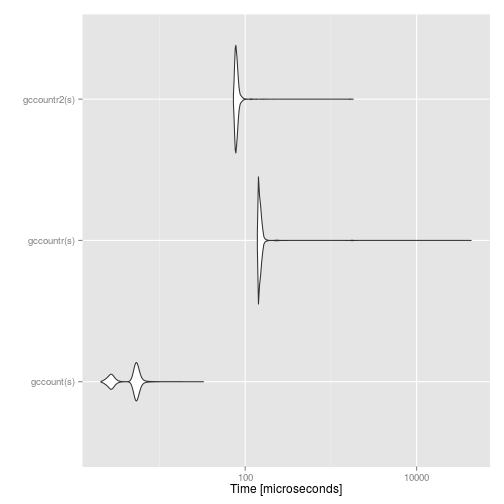
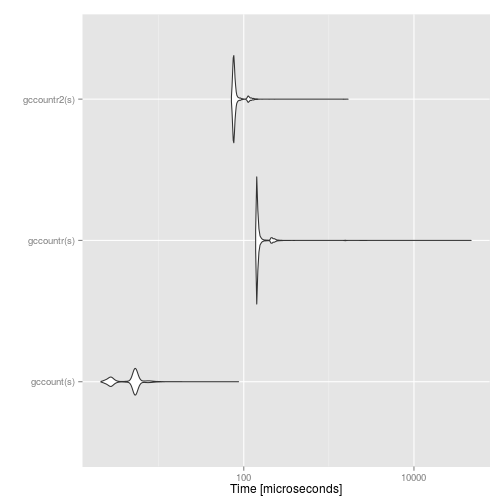
more to the list at the end

diff --git a/coding/code.md b/coding/code.md
@@ -45,7 +45,7 @@ system.time(apply(m, 1, sum))
 
 ```
 ##    user  system elapsed 
-##   0.001   0.000   0.002
+##   0.002   0.000   0.002
 ```
 
 
@@ -54,7 +54,7 @@ replicate(5, system.time(apply(m, 1, sum))[[1]])
 ```
 
 ```
-## [1] 0.002 0.002 0.001 0.002 0.002
+## [1] 0.002 0.001 0.001 0.002 0.002
 ```
 
 
@@ -91,7 +91,7 @@ gccount(s)
 ```
 
 ```
-## [1] 25 18 29 28
+## [1] 29 24 29 18
 ```
 
 ```r
@@ -101,7 +101,7 @@ gccountr(s)
 ```
 ## 
 ##  A  C  G  T 
-## 25 18 29 28
+## 29 24 29 18
 ```
 
 ```r
@@ -109,7 +109,7 @@ gccountr2(s)
 ```
 
 ```
-## [1] 25 18 29 28
+## [1] 29 24 29 18
 ```
 
 But are they really the same? Are we really comparing the same
@@ -128,14 +128,14 @@ print(mb)
 
 ```
 ## Unit: microseconds
-##          expr     min       lq       mean   median       uq       max
-##    gccount(s)   2.074   2.8680   4.628888   5.2390   5.5180    32.680
-##   gccountr(s) 137.416 143.5740 158.881456 146.9930 152.5725 43618.976
-##  gccountr2(s)  71.933  76.7245  82.133342  78.7375  81.4075  1848.127
-##  neval cld
-##  10000 a  
-##  10000   c
-##  10000  b
+##          expr     min       lq       mean   median      uq       max neval
+##    gccount(s)   2.084   2.9425   4.789972   5.1965   5.449    87.456 10000
+##   gccountr(s) 136.025 141.6960 162.794810 143.9790 148.906 47597.697 10000
+##  gccountr2(s)  70.581  75.1600  83.189154  76.8205  79.493  1706.392 10000
+##  cld
+##  a  
+##    c
+##   b
 ```
 
 
@@ -144,10 +144,7 @@ library("ggplot2")
 autoplot(mb)
 ```
 
-```
-## Error: Objects of type microbenchmark not supported by autoplot.  Please use qplot() or ggplot() instead.
-## Objects of type data.frame not supported by autoplot.  Please use qplot() or ggplot() instead.
-```
+![plot of chunk unnamed-chunk-7](figure/unnamed-chunk-7-1.png) 
 
 
 ```r
@@ -162,9 +159,9 @@ benchmark(replications = 1e4,
 
 ```
 ##           test elapsed replications
-## 3 gccountr2(s)   0.840        10000
+## 3 gccountr2(s)   0.880        10000
 ## 2  gccountr(s)   1.586        10000
-## 1   gccount(s)   0.051        10000
+## 1   gccount(s)   0.053        10000
 ```
 
 ## Profiling 
@@ -180,18 +177,35 @@ summaryRprof("rprof")
 
 ```
 ## $by.self
-## [1] self.time  self.pct   total.time total.pct 
-## <0 rows> (or 0-length row.names)
+##         self.time self.pct total.time total.pct
+## "match"      0.02      100       0.02       100
 ## 
 ## $by.total
-## [1] total.time total.pct  self.time  self.pct  
-## <0 rows> (or 0-length row.names)
+##                       total.time total.pct self.time self.pct
+## "match"                     0.02       100      0.02      100
+## "block_exec"                0.02       100      0.00        0
+## "call_block"                0.02       100      0.00        0
+## "deparse"                   0.02       100      0.00        0
+## ".deparseOpts"              0.02       100      0.00        0
+## "eval"                      0.02       100      0.00        0
+## "evaluate"                  0.02       100      0.00        0
+## "evaluate_call"             0.02       100      0.00        0
+## "%in%"                      0.02       100      0.00        0
+## "in_dir"                    0.02       100      0.00        0
+## "knit"                      0.02       100      0.00        0
+## "match.arg"                 0.02       100      0.00        0
+## "process_file"              0.02       100      0.00        0
+## "process_group"             0.02       100      0.00        0
+## "process_group.block"       0.02       100      0.00        0
+## "setHook"                   0.02       100      0.00        0
+## "set_hooks"                 0.02       100      0.00        0
+## "withCallingHandlers"       0.02       100      0.00        0
 ## 
 ## $sample.interval
 ## [1] 0.02
 ## 
 ## $sampling.time
-## [1] 0
+## [1] 0.02
 ```
 
 ### The `lineprof` package
@@ -250,7 +264,7 @@ tracemem(a)
 ```
 
 ```
-## [1] "<0x3c50008>"
+## [1] "<0x26e0498>"
 ```
 
 ```r
@@ -258,8 +272,8 @@ seq(a) <- "GATC"
 ```
 
 ```
-## tracemem[0x3c50008 -> 0x296fd48]: eval eval withVisible withCallingHandlers doTryCatch tryCatchOne tryCatchList tryCatch try handle evaluate_call evaluate in_dir block_exec call_block process_group.block process_group withCallingHandlers process_file knit 
-## tracemem[0x296fd48 -> 0x2949110]: seq<- seq<- eval eval withVisible withCallingHandlers doTryCatch tryCatchOne tryCatchList tryCatch try handle evaluate_call evaluate in_dir block_exec call_block process_group.block process_group withCallingHandlers process_file knit
+## tracemem[0x26e0498 -> 0x5c33958]: eval eval withVisible withCallingHandlers doTryCatch tryCatchOne tryCatchList tryCatch try handle evaluate_call evaluate in_dir block_exec call_block process_group.block process_group withCallingHandlers process_file knit 
+## tracemem[0x5c33958 -> 0x5fa8368]: seq<- seq<- eval eval withVisible withCallingHandlers doTryCatch tryCatchOne tryCatchList tryCatch try handle evaluate_call evaluate in_dir block_exec call_block process_group.block process_group withCallingHandlers process_file knit
 ```
 
 The illusion of copying
@@ -271,7 +285,7 @@ tracemem(x)
 ```
 
 ```
-## [1] "<0x24c2f40>"
+## [1] "<0x55a1a20>"
 ```
 
 ```r
@@ -281,7 +295,7 @@ x[1] <- 1L
 ```
 
 ```
-## tracemem[0x24c2f40 -> 0x23ca4b8]: eval eval withVisible withCallingHandlers doTryCatch tryCatchOne tryCatchList tryCatch try handle evaluate_call evaluate in_dir block_exec call_block process_group.block process_group withCallingHandlers process_file knit
+## tracemem[0x55a1a20 -> 0x4ca2e68]: eval eval withVisible withCallingHandlers doTryCatch tryCatchOne tryCatchList tryCatch try handle evaluate_call evaluate in_dir block_exec call_block process_group.block process_group withCallingHandlers process_file knit
 ```
 
 ```r
@@ -363,7 +377,7 @@ f()
 ```
 
 ```
-## <environment: 0x3681590>
+## <environment: 0x5296710>
 ```
 
 ```r
@@ -383,7 +397,7 @@ e
 ```
 
 ```
-## <environment: 0x307b530>
+## <environment: 0x575f658>
 ```
 
 ```r
@@ -431,17 +445,20 @@ This is used in the `eSet` et al. microarray data structures to store the expres
 
 - [CRAN High-Performance and Parallel Computing task view](http://cran.r-project.org/web/views/HighPerformanceComputing.html).
 - Storing data in database or databases-like structures: `RMySQL`,
-      `RdbiPgSQL`, \ldots, `RSQLite`, `qldf`, `data.table`, `dplyr`,
-      ... packages.
+      `RdbiPgSQL`, \ldots, `RSQLite`, `qldf`, `data.table` (the
+      `data.table::fread`, when `read.table` is slow, also `scan`),
+      `dplyr`, ... packages
 - The `ff` package by Adler et al. offers file-based access to data
   sets that are too large to be loaded into memory, along with a
-  number of higher-level functions.
+  number of higher-level functions
 - The `bigmemory` package by Kane and Emerson permits storing large
   objects such as matrices in memory (as well as via files) and uses
-  `external pointer` objects to refer to them.
-- `netCDF` data files: `ncdf` and `RNetCDF` packages.
-- `hdf5` format: `rhdf5` package.
-- hadoop
+  `external pointer` objects to refer to them
+- `netCDF` data files: `ncdf` and `RNetCDF` packages
+- `hdf5` format: `rhdf5` package
+- `mmap` memory-mapped files/devices I/O
+- hadoop and R
+- See http://r-pbd.org/ and the
+  [[http://cran.r-project.org/web/packages/pbdDEMO/][pbdDemo]]
+  package/vignette
 - ...
-
-
